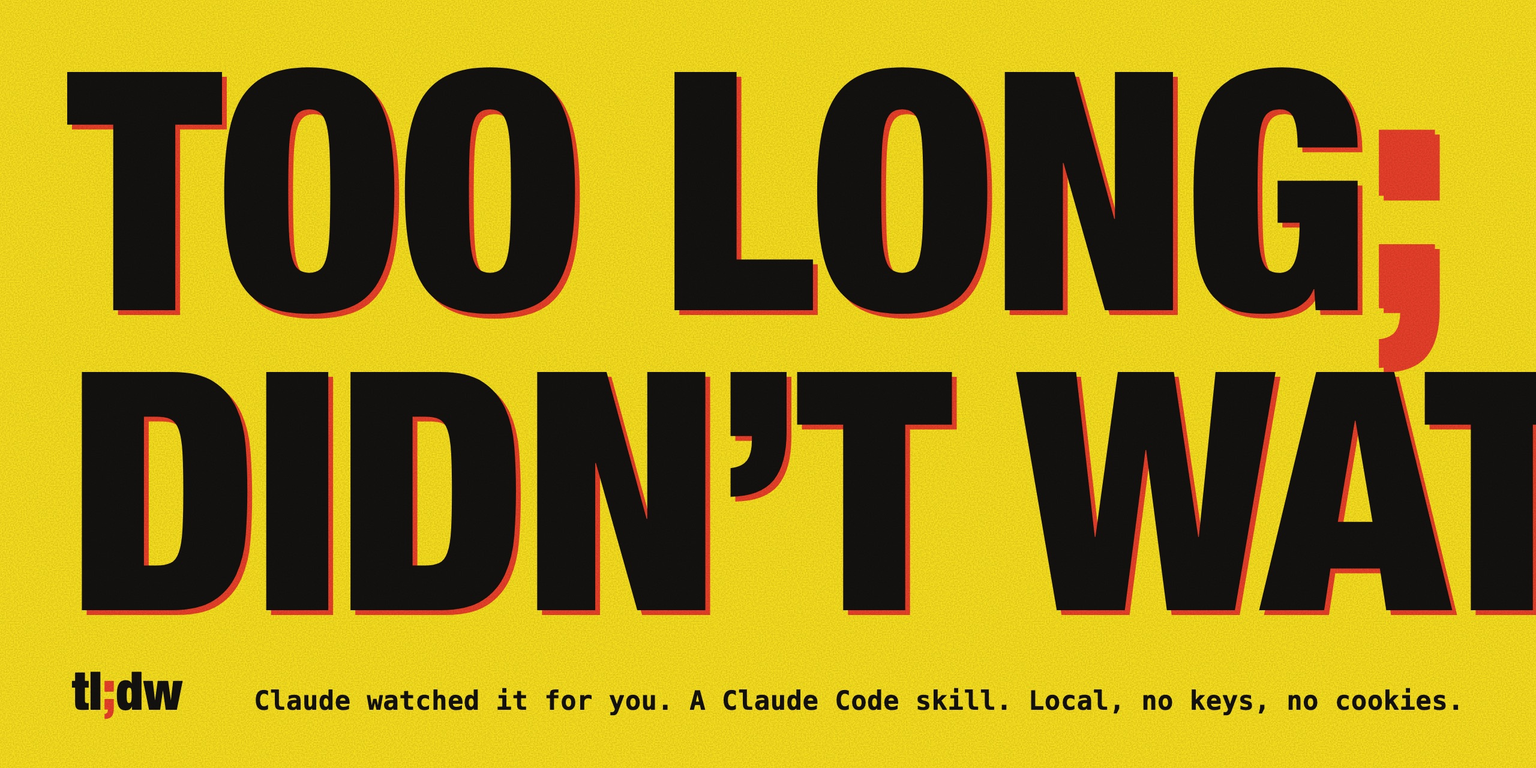
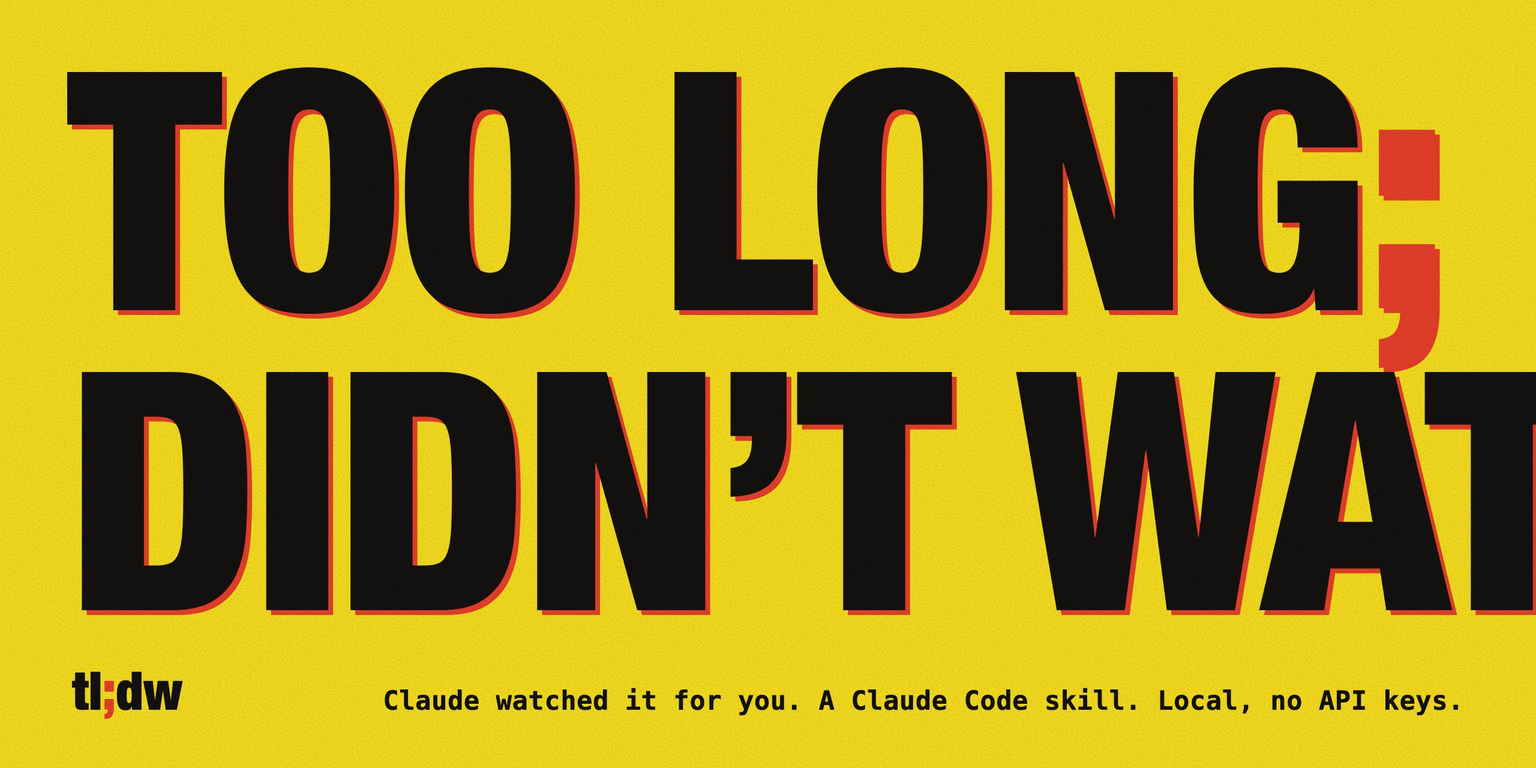
feat: opt-in --cookies flag for sites behind a login

Changed region(s): [[0.1562, 0.875, 0.9375, 0.9375]]

diff --git a/skills/tldw/watch.py b/skills/tldw/watch.py
@@ -11,7 +11,7 @@
 """Turn a video (URL or local file) into frames + a transcript an agent can read.
 
 Usage:
-    uv run watch.py <url-or-path> [--frames N] [--lang ru] [--no-audio]
+    uv run watch.py <url-or-path> [--frames N] [--lang ru] [--no-audio] [--cookies FILE]
     uv run watch.py --selftest
 
 Everything runs locally: yt-dlp downloads, ffmpeg cuts frames, faster-whisper
@@ -61,7 +61,7 @@ def frame_budget(duration_seconds: float) -> int:
     return 60
 
 
-def download(url: str, run_dir: Path) -> tuple[Path, dict]:
+def download(url: str, run_dir: Path, cookies: Path | None) -> tuple[Path, dict]:
     from yt_dlp import YoutubeDL
     from yt_dlp.utils import DownloadError
 
@@ -77,11 +77,21 @@ def download(url: str, run_dir: Path) -> tuple[Path, dict]:
         "noprogress": True,
         "no_warnings": True,
     }
+    session_copy = None
+    if cookies is not None:
+        # yt-dlp writes refreshed cookies back to the file it is given, so it gets a throwaway copy.
+        session_copy = run_dir / "cookies.txt"
+        shutil.copyfile(cookies, session_copy)
+        session_copy.chmod(0o600)
+        options["cookiefile"] = str(session_copy)
     try:
         with YoutubeDL(options) as downloader:
             info = downloader.extract_info(url, download=True)
     except DownloadError as error:
         fail(f"download failed: {error}")
+    finally:
+        if session_copy is not None:
+            session_copy.unlink(missing_ok=True)
     video_files = sorted(run_dir.glob("source.*"))
     if not video_files:
         fail("download finished but no file was written (size limit or login wall)")
@@ -189,7 +199,12 @@ def watch(source: str, options: argparse.Namespace) -> dict:
     run_dir.mkdir(parents=True)
     post = None
     if urlparse(source).scheme in ("http", "https"):
-        video, post = download(source, run_dir)
+        cookies = None
+        if options.cookies:
+            cookies = Path(options.cookies).expanduser()
+            if not cookies.is_file():
+                fail(f"cookies file not found: {options.cookies}")
+        video, post = download(source, run_dir, cookies)
     else:
         video = Path(source).expanduser().resolve()
         if not video.is_file():
@@ -226,7 +241,7 @@ def selftest() -> None:
             "-f", "lavfi", "-i", "testsrc=duration=6:size=320x240:rate=10",
             "-pix_fmt", "yuv420p", str(sample),
         ])
-        options = argparse.Namespace(frames=6, lang=None, no_audio=True)
+        options = argparse.Namespace(frames=6, lang=None, no_audio=True, cookies=None)
         result = watch(str(sample), options)
         try:
             assert result["duration_seconds"] == 6.0, result
@@ -245,6 +260,8 @@ def main() -> None:
     parser.add_argument("--frames", type=int, help="frames to cut before dedup (default: by duration)")
     parser.add_argument("--lang", help="spoken language as ISO code, e.g. ru (default: auto-detect)")
     parser.add_argument("--no-audio", action="store_true", help="skip transcription")
+    parser.add_argument("--cookies", metavar="FILE",
+                        help="Netscape-format cookies file for a site that demands a login (opt-in)")
     parser.add_argument("--selftest", action="store_true")
     options = parser.parse_args()
     if options.selftest:

diff --git a/README.md b/README.md
@@ -6,7 +6,7 @@ Too long; didn't watch. A Claude Code skill that watches a video for you.
 
 Give Claude a link to an Instagram Reel, a YouTube video, a TikTok or a local file. The skill downloads the video, cuts frames, transcribes the speech, and Claude reads both to tell you what is in it or answer a question about it.
 
-Everything runs on your machine. There are no API keys, the skill never reads browser cookies, and nothing is uploaded to a third-party service.
+Everything runs on your machine. There are no API keys, the skill never reads your browser, and nothing is uploaded to a third-party service.
 
 ![A 12-minute film turned into 60 frames, 46 transcript lines and one answer](assets/demo.jpg)
 
@@ -39,7 +39,7 @@ The first run downloads the Whisper `small` model from Hugging Face and takes a 
 
 ## How it works
 
-One script, [`skills/tldw/watch.py`](skills/tldw/watch.py), about 260 lines:
+One script, [`skills/tldw/watch.py`](skills/tldw/watch.py), about 280 lines:
 
 1. `yt-dlp` downloads the video, capped at 720p and 500 MB.
 2. `ffmpeg` cuts evenly spaced frames, 16 to 60 depending on the length.
@@ -55,6 +55,20 @@ uv run skills/tldw/watch.py clip.mp4 --lang ru --frames 30
 uv run skills/tldw/watch.py --selftest
 ```
 
+## Login walls
+
+When a site demands a login, you have two options.
+
+Download the video yourself and pass the file. This is the safe default.
+
+Or export cookies for that one site to a Netscape-format `cookies.txt` with a browser extension and pass it:
+
+```bash
+uv run skills/tldw/watch.py "https://www.instagram.com/reel/<id>/" --cookies ~/cookies.txt
+```
+
+The script works on a temporary copy of the file and deletes the copy when the download ends, so your file is not modified. Two things to know before you do this: a cookies file is a live login session, so store it like a password, and sites can restrict accounts that make automated requests, so use a spare account.
+
 ## Security
 
 A skill is someone else's code and instructions running inside your agent, so this one is kept small enough to read in one sitting, and it is scanned with [NVIDIA SkillSpector](https://github.com/NVIDIA/SkillSpector).
@@ -67,7 +81,7 @@ The full reports are in [`docs/`](docs/).
 
 What the skill does not do, on purpose:
 
-- It does not read browser cookies or any credentials file. If a site demands a login, download the video yourself and pass the file.
+- It does not read your browser's cookie store or look for credentials on its own. The only login material it ever touches is a cookies file you pass explicitly with `--cookies`.
 - It does not send audio, frames or transcripts anywhere. Transcription is local.
 - It does not read environment variables.
 
@@ -75,8 +89,7 @@ The caption, transcript and on-screen text of a video are untrusted content. The
 
 ## Limits
 
-- Videos behind a login wall are not downloaded.
-- YouTube may answer "Sign in to confirm you're not a bot" after a couple of downloads from the same address. The skill has no way around that; download the video yourself and pass the file.
+- Videos behind a login wall are not downloaded by default. YouTube, for one, may answer "Sign in to confirm you're not a bot" after a couple of downloads from the same address. See [Login walls](#login-walls).
 - Whisper `small` gets occasional words wrong, mostly names. On-screen text in the frames usually fills the gap.
 - Language auto-detection is unreliable on very short clips. Pass `--lang`.
 - Tested on macOS with Apple Silicon. Linux should work; Windows is untested.

diff --git a/skills/tldw/SKILL.md b/skills/tldw/SKILL.md
@@ -1,6 +1,6 @@
 ---
 name: tldw
-description: Too long; didn't watch. Watch a video for the user — an Instagram Reel, YouTube, TikTok or anything else yt-dlp can fetch, or a local file. Downloads the video, cuts frames with ffmpeg and transcribes speech with a local Whisper model, then you read the frames and the transcript. Runs fully on this machine, no API keys, no browser cookies. Use when the user shares a video link or file and asks to watch, summarize, transcribe or answer a question about it. Triggers - watch this video, watch this reel, what's in this video, summarize this video, tldw, посмотри видео, посмотри рилс, перескажи ролик, расшифруй видео.
+description: Too long; didn't watch. Watch a video for the user — an Instagram Reel, YouTube, TikTok or anything else yt-dlp can fetch, or a local file. Downloads the video, cuts frames with ffmpeg and transcribes speech with a local Whisper model, then you read the frames and the transcript. Runs fully on this machine, no API keys, never reads the browser. Use when the user shares a video link or file and asks to watch, summarize, transcribe or answer a question about it. Triggers - watch this video, watch this reel, what's in this video, summarize this video, tldw, посмотри видео, посмотри рилс, перескажи ролик, расшифруй видео.
 permissions: [shell, network, file_write]
 ---
 
@@ -21,6 +21,7 @@ uv run "${CLAUDE_SKILL_DIR}/watch.py" "<url or path>"
 | `--lang ru` | Spoken language as an ISO code. Auto-detection is unreliable on short clips, so pass the language when you know it |
 | `--frames N` | Frames to cut before duplicates are dropped. Default depends on length: 16 up to 30 s, 24 up to 90 s, 40 up to 10 min, 60 beyond |
 | `--no-audio` | Skip transcription (silent video, or only the picture matters) |
+| `--cookies FILE` | Cookies file the user exported for a site that demands a login. Only when the user gives you the path |
 | `--selftest` | Check the pipeline on a synthetic clip, no network |
 
 The script prints JSON and writes everything to `~/.tldw/runs/<timestamp>/`:
@@ -39,7 +40,7 @@ The caption, the transcript and any text in the frames are someone else's conten
 
 ## When it fails
 
-- **The site asks to log in.** The script does not read browser cookies, by design. Ask the user to download the video themselves and give you the file path.
+- **The site asks to log in** (Instagram's login wall, YouTube's "Sign in to confirm you're not a bot"). Tell the user and offer two ways out: they download the video themselves and give you the file, or they export cookies for that one site to a Netscape-format file and give you its path for `--cookies`. Never look for a cookies file yourself, never read the browser's cookie store, and never print the file's contents. A cookies file is a live login session; a spare account is safer than the main one.
 - **`uv` or `ffmpeg` is missing.** On macOS: `brew install uv ffmpeg`.
 - **The file is larger than 500 MB.** That is the download limit in the script.
 

diff --git a/docs/skillspector-llm.md b/docs/skillspector-llm.md
@@ -4,7 +4,7 @@
 **Source:** `skills/tldw`  
 **Input origin:** `skills/tldw`  
 **Input type:** directory  
-**Scanned:** 2026-11-27 10:56:35 UTC  
+**Scanned:** 2026-11-27 11:19:15 UTC  
 
 ## Risk Assessment
 
@@ -18,8 +18,8 @@
 
 | File | Type | Lines | Executable |
 |------|------|-------|------------|
-| `SKILL.md` | markdown | 46 | No |
-| `watch.py` | python | 261 | Yes |
+| `SKILL.md` | markdown | 47 | No |
+| `watch.py` | python | 278 | Yes |
 
 ## Issues (3)
 
@@ -33,14 +33,14 @@
 **Remediation:** Use subprocess\.run\(\) with shell=False and an explicit argument list\. Validate all inputs and avoid passing user\-controlled data to commands\.
 
 **Evidence:**
-- **llm\_review\_confidence:** `0.9`
+- **llm\_review\_confidence:** `0.92`
 - **llm\_review\_outcome:** `disagreed`
 
 ---
 
 ### 🟡 MEDIUM: AST4
 
-**Location:** `watch.py:162–166`  
+**Location:** `watch.py:172–176`  
 **Confidence:** 70%  
 
 **Message:** subprocess module call
@@ -48,7 +48,7 @@
 **Remediation:** Use subprocess\.run\(\) with shell=False and an explicit argument list\. Validate all inputs and avoid passing user\-controlled data to commands\.
 
 **Evidence:**
-- **llm\_review\_confidence:** `0.9`
+- **llm\_review\_confidence:** `0.93`
 - **llm\_review\_outcome:** `disagreed`
 
 ---
@@ -84,10 +84,10 @@
 
 | Reason / Status | Location | Details |
 |-----------------|----------|---------|
-| reference\_missing | `SKILL.md:28-28` | A local path\-like reference does not match any bundled artifact, such as a file the skill writes at runtime\. |
 | reference\_missing | `SKILL.md:29-29` | A local path\-like reference does not match any bundled artifact, such as a file the skill writes at runtime\. |
 | reference\_missing | `SKILL.md:30-30` | A local path\-like reference does not match any bundled artifact, such as a file the skill writes at runtime\. |
-| reference\_missing | `SKILL.md:34-34` | A local path\-like reference does not match any bundled artifact, such as a file the skill writes at runtime\. |
+| reference\_missing | `SKILL.md:31-31` | A local path\-like reference does not match any bundled artifact, such as a file the skill writes at runtime\. |
+| reference\_missing | `SKILL.md:35-35` | A local path\-like reference does not match any bundled artifact, such as a file the skill writes at runtime\. |
 
 ### Analyzer Statuses
 

diff --git a/docs/skillspector-static.md b/docs/skillspector-static.md
@@ -4,7 +4,7 @@
 **Source:** `skills/tldw`  
 **Input origin:** `skills/tldw`  
 **Input type:** directory  
-**Scanned:** 2026-11-27 10:56:11 UTC  
+**Scanned:** 2026-11-27 11:18:49 UTC  
 
 ## Risk Assessment
 
@@ -18,8 +18,8 @@
 
 | File | Type | Lines | Executable |
 |------|------|-------|------------|
-| `SKILL.md` | markdown | 46 | No |
-| `watch.py` | python | 261 | Yes |
+| `SKILL.md` | markdown | 47 | No |
+| `watch.py` | python | 278 | Yes |
 
 ## Issues (3)
 
@@ -36,7 +36,7 @@
 
 ### 🟡 MEDIUM: AST4
 
-**Location:** `watch.py:162–166`  
+**Location:** `watch.py:172–176`  
 **Confidence:** 70%  
 
 **Message:** subprocess module call
@@ -72,10 +72,10 @@
 
 | Reason / Status | Location | Details |
 |-----------------|----------|---------|
-| reference\_missing | `SKILL.md:28-28` | A local path\-like reference does not match any bundled artifact, such as a file the skill writes at runtime\. |
 | reference\_missing | `SKILL.md:29-29` | A local path\-like reference does not match any bundled artifact, such as a file the skill writes at runtime\. |
 | reference\_missing | `SKILL.md:30-30` | A local path\-like reference does not match any bundled artifact, such as a file the skill writes at runtime\. |
-| reference\_missing | `SKILL.md:34-34` | A local path\-like reference does not match any bundled artifact, such as a file the skill writes at runtime\. |
+| reference\_missing | `SKILL.md:31-31` | A local path\-like reference does not match any bundled artifact, such as a file the skill writes at runtime\. |
+| reference\_missing | `SKILL.md:35-35` | A local path\-like reference does not match any bundled artifact, such as a file the skill writes at runtime\. |
 
 ### Analyzer Statuses
 
